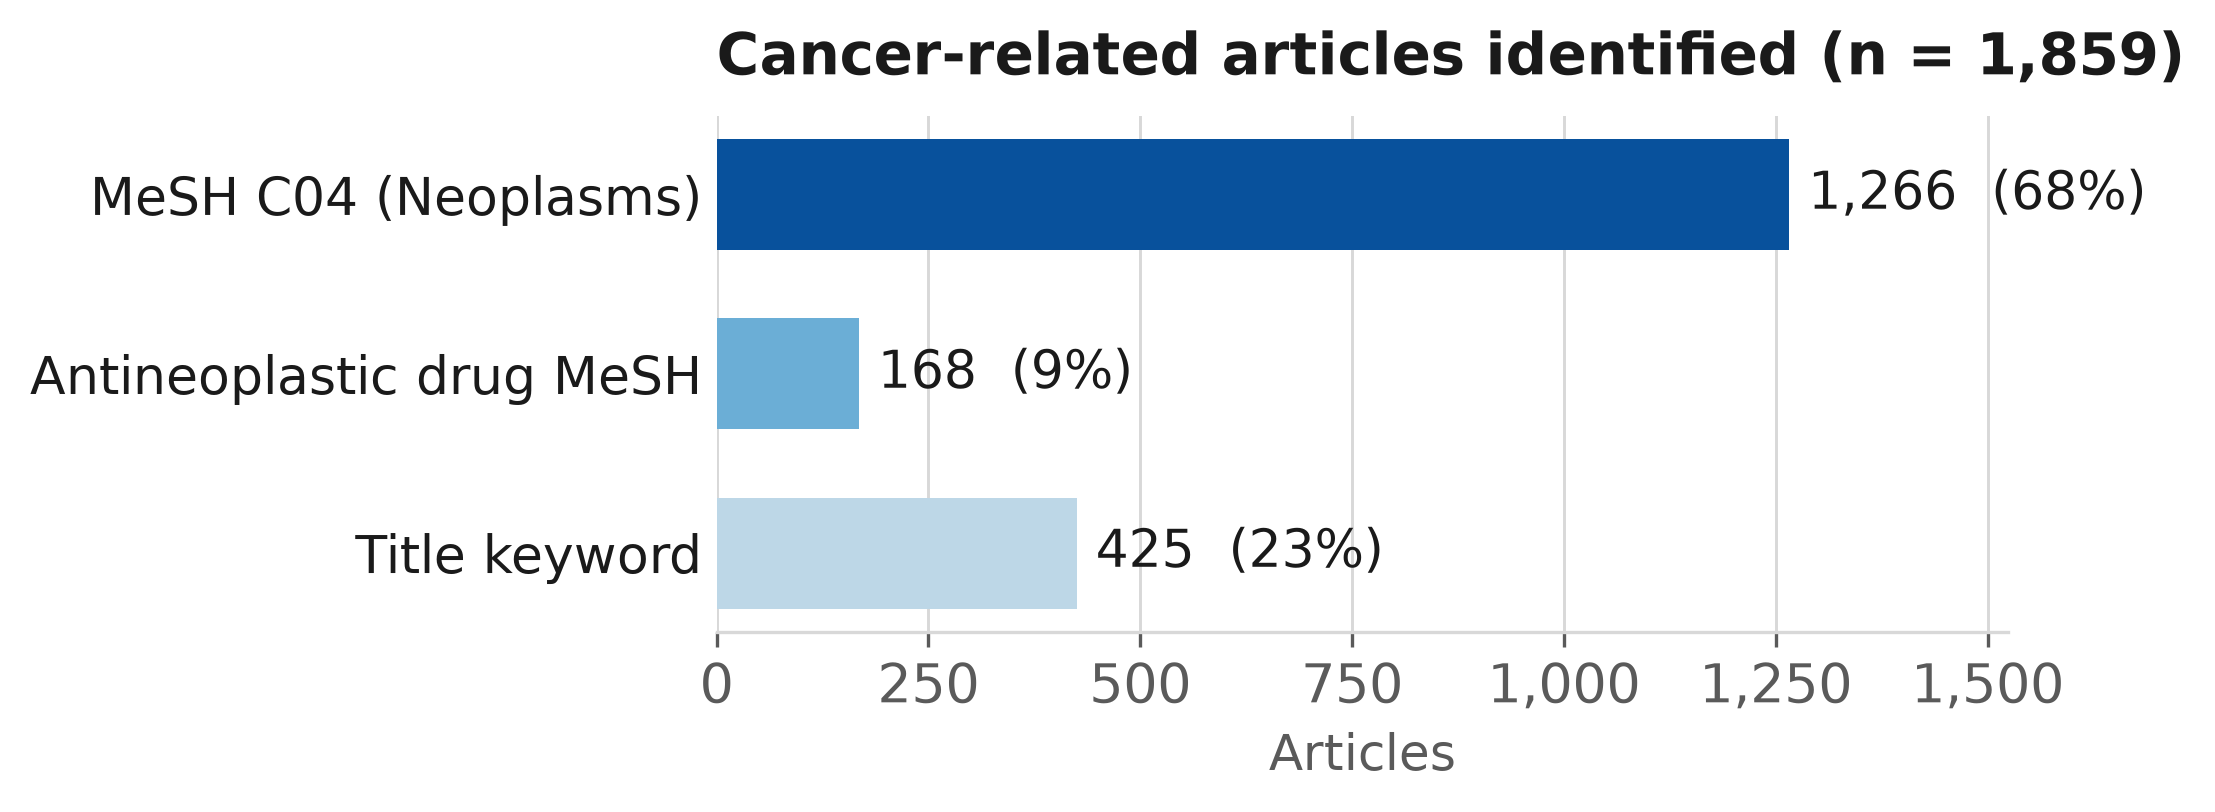
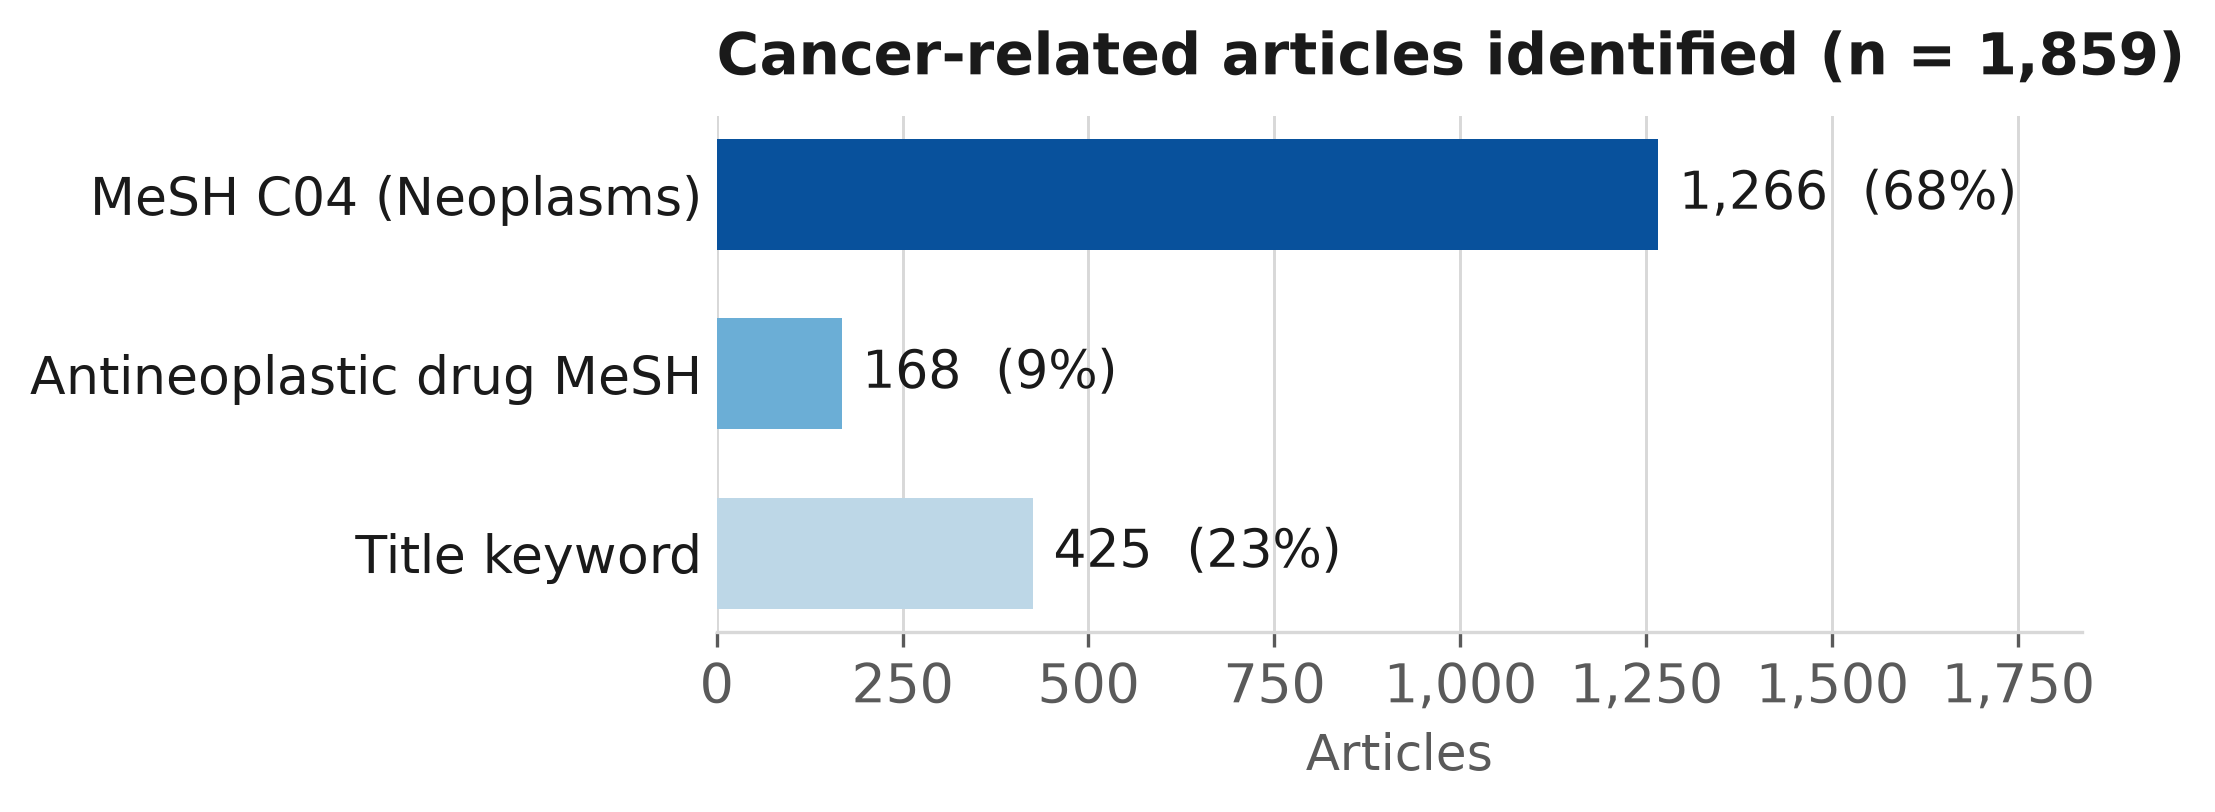
feat: add pipeline schematic and fix two figure legibility defects
fig1_pipeline.png: four-stage data pipeline schematic (sources, signal
pipelines, scoring, application), drawn to the same tokens as the other poster
figures rather than reusing the differently-styled WIN diagram.

Two defects found by rendering and inspecting the output:

The SCORING stage accent (#6BAED6) measured 2.43:1 against white, below the 3:1
floor, leaving the column header washed out. Stepped to #4292C6 (3.41:1).

In fig2 the x-limit was set off the corpus total rather than the longest bar, so
the "1,266 (68%)" direct label ran off the right edge. Headroom is now computed
from the longest bar.

diff --git a/tools_make_nci_poster_text.py b/tools_make_nci_poster_text.py
@@ -32,19 +32,30 @@ SECTIONS = [
         "4.0, with all code and pipelines open-source and auto-updated monthly.",
     ]),
     ("INTRODUCTION", [
-        "Wikipedia is a primary health information source for patients, caregivers, and "
-        "clinicians, and for many is the first text read after a cancer diagnosis. The quality "
-        "of that text matters.",
-        "WikiProject Medicine (WPM) volunteers assign health-related articles two ratings: "
-        "editorial quality (Stub to Featured Article) and clinical importance (Low to Top). "
-        "These labels provide a rough signal of need, but browsing category trees to find "
-        "editing opportunities does not scale, and the articles with the largest gap between "
-        "readership and quality are not visible from category pages.",
-        "Cancer-related articles comprise a substantial, high-priority subset of the medical "
-        "corpus. Prior work on Wikipedia medical content has focused largely on quality audits "
-        "within specific disease areas, not on building scalable tools for prospective, "
-        "data-driven editorial prioritization. We developed a customized algorithm and "
-        "dashboard to address this unmet need.",
+        "Wikipedia is among the most consulted health information resources in the world. Its "
+        "medical content drew an estimated 6.5 billion page views in 2013 across all language "
+        "editions, exceeding the traffic of the NIH, WebMD, Mayo Clinic, NHS, WHO, and UpToDate "
+        "on comparable measures [1]. It is equally prominent at the point of search, appearing "
+        "among the first ten results for 71-85% of health queries tested across major search "
+        "engines, ahead of MedlinePlus and NHS Direct Online, and ranking highest of all for "
+        "rare diseases [2]. A scoping review across patient, student, and clinician populations "
+        "found it consistently prominent as a health information resource [3].",
+        "That content is written entirely by volunteers, and its quality is uneven. Audits have "
+        "repeatedly found Wikipedia's medical articles substantively accurate but difficult to "
+        "read. A comparison of ten cancer topics against the National Cancer Institute's "
+        "Physician Data Query database found errors rare in both sources, but Wikipedia written "
+        "at Flesch-Kincaid grade 14.1 against PDQ's 9.6 [4]. Comparable audits exist for drug "
+        "information [5] and for the growth of medical content over time [6].",
+        "WikiProject Medicine (WPM) volunteers assign each article two ratings: editorial "
+        "quality (Stub to Featured Article) and clinical importance (Low to Top) [7]. These "
+        "labels provide a rough signal of need, but browsing category trees does not scale "
+        "across 53,286 articles, and the articles with the largest gap between readership and "
+        "quality are not visible from category pages.",
+        "Prior work has therefore characterised Wikipedia's medical content retrospectively and "
+        "within bounded disease areas. What has been missing is a prospective, corpus-wide tool "
+        "that ranks articles by where editorial effort would reach the most readers. We "
+        "developed a customized algorithm and dashboard to address this unmet need, with a "
+        "dedicated Cancer Dashboard as the first domain-specific application.",
     ]),
     ("METHODS", [
         "__Article metadata.__ Five sequential Wikipedia and Wikimedia API phases supplied "
@@ -122,6 +133,58 @@ SECTIONS = [
         "* A pre-post survey study across seven partner medical schools to gauge utility, "
         "usability, and usefulness is planned",
     ]),
+]
+
+REFERENCES = [
+    ("Heilman JM, West AG. Wikipedia and medicine: quantifying readership, editors, and the "
+     "significance of natural language. J Med Internet Res. 2015;17(3):e62. doi:10.2196/jmir.4069",
+     "VERIFIED against PMC full text. Supports the 6.5 billion page view figure and the "
+     "comparison set (NIH, WebMD, Mayo Clinic, NHS, WHO, UpToDate). Analysed all language "
+     "editions. Note the traffic data is from 2013; the authors hedge ('appears to be the most "
+     "utilized')."),
+    ("Laurent MR, Vickers TJ. Seeking health information online: does Wikipedia matter? "
+     "J Am Med Inform Assoc. 2009;16(4):471-479. doi:10.1197/jamia.M3059",
+     "VERIFIED. Supports the 71-85% top-ten search ranking, outperforming MedlinePlus and NHS "
+     "Direct Online, and the rare-disease finding, which sets up the long-tail result in "
+     "Results. CORRECTION: the WIN poster lists this DOI as 10.1197/jamia.M2823, which is "
+     "wrong. The correct DOI is 10.1197/jamia.M3059."),
+    ("Smith DA. Situating Wikipedia as a health information resource in various contexts: a "
+     "scoping review. PLoS One. 2020;15(2):e0228786. doi:10.1371/journal.pone.0228786",
+     "VERIFIED against full text. Cited only for prominence across populations. The review "
+     "states that evidence for professional (clinician) use is 'more limited', so the poster "
+     "makes no claim about a specific share of physicians using Wikipedia."),
+    ("Rajagopalan MS, Khanna VK, Leiter Y, Stott M, Showalter TN, Dicker AP, Lawrence YR. "
+     "Patient-oriented cancer information on the internet: a comparison of Wikipedia and a "
+     "professionally maintained database. J Oncol Pract. 2011;7(5):319-323. "
+     "doi:10.1200/JOP.2010.000209",
+     "VERIFIED against PMC full text. Ten cancer types (five common, five uncommon); 1 error in "
+     "80 statements; Wikipedia FK 14.1 vs PDQ 9.6. Our cancer-wide median of 13.6 closely "
+     "matches their 14.1, which independently corroborates the readability result across a "
+     "fifteen-year gap. Worth saying aloud at the poster."),
+    ("Kraenbring J, Monzon Penza T, Gutmann J, et al. Accuracy and completeness of drug "
+     "information in Wikipedia: a comparison with standard textbooks of pharmacology. PLoS One. "
+     "2014;9(9):e106930. doi:10.1371/journal.pone.0106930",
+     "Carried over from the WIN poster reference list. Cited as an example of a bounded-domain "
+     "audit. Not independently re-verified here."),
+    ("Shafee T, Masukume G, Kipersztok L, Das D, Haggstrom M, Heilman J. Evolution of "
+     "Wikipedia's medical content: past, present and future. J Epidemiol Community Health. "
+     "2017;71(11):1122-1129. doi:10.1136/jech-2016-208601",
+     "Carried over from the WIN poster reference list. Cited for growth of medical content over "
+     "time. Not independently re-verified here."),
+    ("Wikipedia. WikiProject Medicine. "
+     "https://en.wikipedia.org/wiki/Wikipedia:WikiProject_Medicine",
+     "Source for the two rating scales (quality, importance) and the tagged corpus."),
+    ("National Library of Medicine. Medical Subject Headings (MeSH). Bethesda, MD: NLM; 2026. "
+     "https://www.nlm.nih.gov/mesh/",
+     "Methods: the 2026 descriptor file used for the cascade, the C04 subtree, and "
+     "PharmacologicalAction links."),
+    ("Kincaid JP, Fishburne RP Jr, Rogers RL, Chissom BS. Derivation of new readability "
+     "formulas for Navy Enlisted Personnel. Research Branch Report 8-75. Memphis, TN: Naval "
+     "Technical Training, US Naval Air Station; 1975.",
+     "Methods: the Flesch-Kincaid grade level formula."),
+    ("Wikimedia Foundation. Wikipedia clickstream data. May 2026. "
+     "https://dumps.wikimedia.org/other/clickstream/",
+     "Methods: source of the search-intent component of the Impact-Need Score."),
 ]
 
 FIGURES = [

diff --git a/tools_make_nci_poster_figures.py b/tools_make_nci_poster_figures.py
@@ -91,6 +91,79 @@ def despine(ax, keep=("left", "bottom")):
         ax.spines[side].set_visible(side in keep)
 
 
+def fig_pipeline():
+    """Figure 1 - data pipeline schematic, drawn to match the other poster figures."""
+    from matplotlib.patches import FancyBboxPatch, FancyArrowPatch
+
+    COLW, GAP = 2.45, 0.55
+    STAGES = [
+        ("DATA SOURCES", BLUES3[0], [
+            ("Wikipedia API", "category, talk, info,\nrevision namespaces"),
+            ("Wikimedia REST API", "12-month and 3-month\npageview totals"),
+            ("Wikimedia Clickstream", "May 2026 referral dataset"),
+            ("NLM MeSH 2026", "descriptor file, C04 subtree,\nPharmacologicalAction links"),
+        ]),
+        ("SIGNAL PIPELINES", "#2171B5", [
+            ("Article metadata", "quality class, importance,\nwatchers, length, editors"),
+            ("Attention signals", "inbound links, traffic velocity"),
+            ("Search intent", "external search vs\ninternal navigation"),
+            ("TF-IDF × MeSH", "top 25 terms per lead section"),
+            ("MeSH cascade", "seven layers, ordered by\ndata reliability"),
+        ]),
+        ("SCORING", "#4292C6", [
+            ("Impact-Need Score", "0–100: reach 30%, importance 25%,\nquality deficit 25%,\nscarcity 10%, search intent 10%"),
+            ("Wiki Attention Score", "0–100: current momentum"),
+            ("Medical Relevance", "1–10: TF-IDF × MeSH overlap"),
+        ]),
+        ("APPLICATION", "#08519C", [
+            ("Cancer filter", "MeSH C04 + antineoplastic\nPharmacologicalAction + keyword\n→ 1,859 articles"),
+            ("Cancer Dashboard", "Streamlit Community Cloud\nwikimed-dashboard.com"),
+            ("Monthly refresh", "GitHub Actions re-fetches\nand recomputes all scores"),
+        ]),
+    ]
+
+    fig, ax = plt.subplots(figsize=(13.2, 5.6))
+    ax.set_xlim(0, len(STAGES) * (COLW + GAP))
+    ax.set_ylim(0, 10)
+    ax.axis("off")
+
+    for si, (stage, accent, boxes) in enumerate(STAGES):
+        x = si * (COLW + GAP)
+        ax.text(x + COLW / 2, 9.55, stage, ha="center", va="center",
+                fontsize=12, weight="bold", color=accent)
+        ax.plot([x + 0.05, x + COLW - 0.05], [9.22, 9.22], color=accent, lw=2.2,
+                solid_capstyle="round")
+
+        n = len(boxes)
+        top, bottom = 8.85, 0.35
+        bh = (top - bottom) / n - 0.3
+        for bi, (title, detail) in enumerate(boxes):
+            y = top - bi * (bh + 0.3) - bh
+            ax.add_patch(FancyBboxPatch(
+                (x + 0.05, y), COLW - 0.1, bh,
+                boxstyle="round,pad=0.015,rounding_size=0.09",
+                facecolor="#F6F8FA", edgecolor=GRID, linewidth=1.0, zorder=2))
+            ax.add_patch(FancyBboxPatch(
+                (x + 0.05, y), 0.075, bh,
+                boxstyle="round,pad=0,rounding_size=0.02",
+                facecolor=accent, edgecolor="none", zorder=3))
+            ax.text(x + 0.22, y + bh - 0.26, title, ha="left", va="top",
+                    fontsize=11.2, weight="bold", color=INK, zorder=4)
+            ax.text(x + 0.22, y + bh - 0.55, detail, ha="left", va="top",
+                    fontsize=8.9, color=INK_MUTED, linespacing=1.45, zorder=4)
+
+        if si < len(STAGES) - 1:
+            ax.add_patch(FancyArrowPatch(
+                (x + COLW + 0.06, 4.6), (x + COLW + GAP - 0.06, 4.6),
+                arrowstyle="-|>", mutation_scale=17,
+                color="#9AA5B1", lw=1.8, zorder=5))
+
+    fig.tight_layout(pad=0.4)
+    fig.savefig(f"{OUT}/fig1_pipeline.png", dpi=300, bbox_inches="tight")
+    plt.close(fig)
+    print("  fig1_pipeline.png         4 stages")
+
+
 def fig_identification(can):
     """Composition of the cancer corpus by identification method."""
     counts = can["match_type"].value_counts().reindex(
@@ -101,11 +174,13 @@ def fig_identification(can):
     ypos = np.arange(len(counts))[::-1]
     for y, (lab, v), col in zip(ypos, counts.items(), BLUES3):
         ax.barh(y, v, height=0.62, color=col, zorder=3)
-        ax.text(v + total * 0.012, y, f"{v:,}  ({v/total*100:.0f}%)",
+        ax.text(v + counts.max() * 0.022, y, f"{v:,}  ({v/total*100:.0f}%)",
                 va="center", ha="left", fontsize=12.5, color=INK)
     ax.set_yticks(ypos)
     ax.set_yticklabels(counts.index, fontsize=12.5, color=INK)
-    ax.set_xlim(0, total * 0.82)
+    # Headroom is set off the longest bar, not the corpus total, so the direct
+    # labels have room; otherwise "1,266 (68%)" runs off the right edge.
+    ax.set_xlim(0, counts.max() * 1.45)
     ax.set_xlabel("Articles", fontsize=12, color=INK_MUTED)
     ax.xaxis.set_major_formatter(FuncFormatter(lambda x, _: f"{int(x):,}"))
     ax.xaxis.grid(True, color=GRID, lw=0.7, zorder=0)
@@ -234,6 +309,7 @@ def table_top(can):
 def main():
     df, can = load()
     print(f"Corpus {len(df):,} | cancer subset {len(can):,}\n")
+    fig_pipeline()
     fig_identification(can)
     fig_priority_matrix(can)
     fig_scatter(can)
